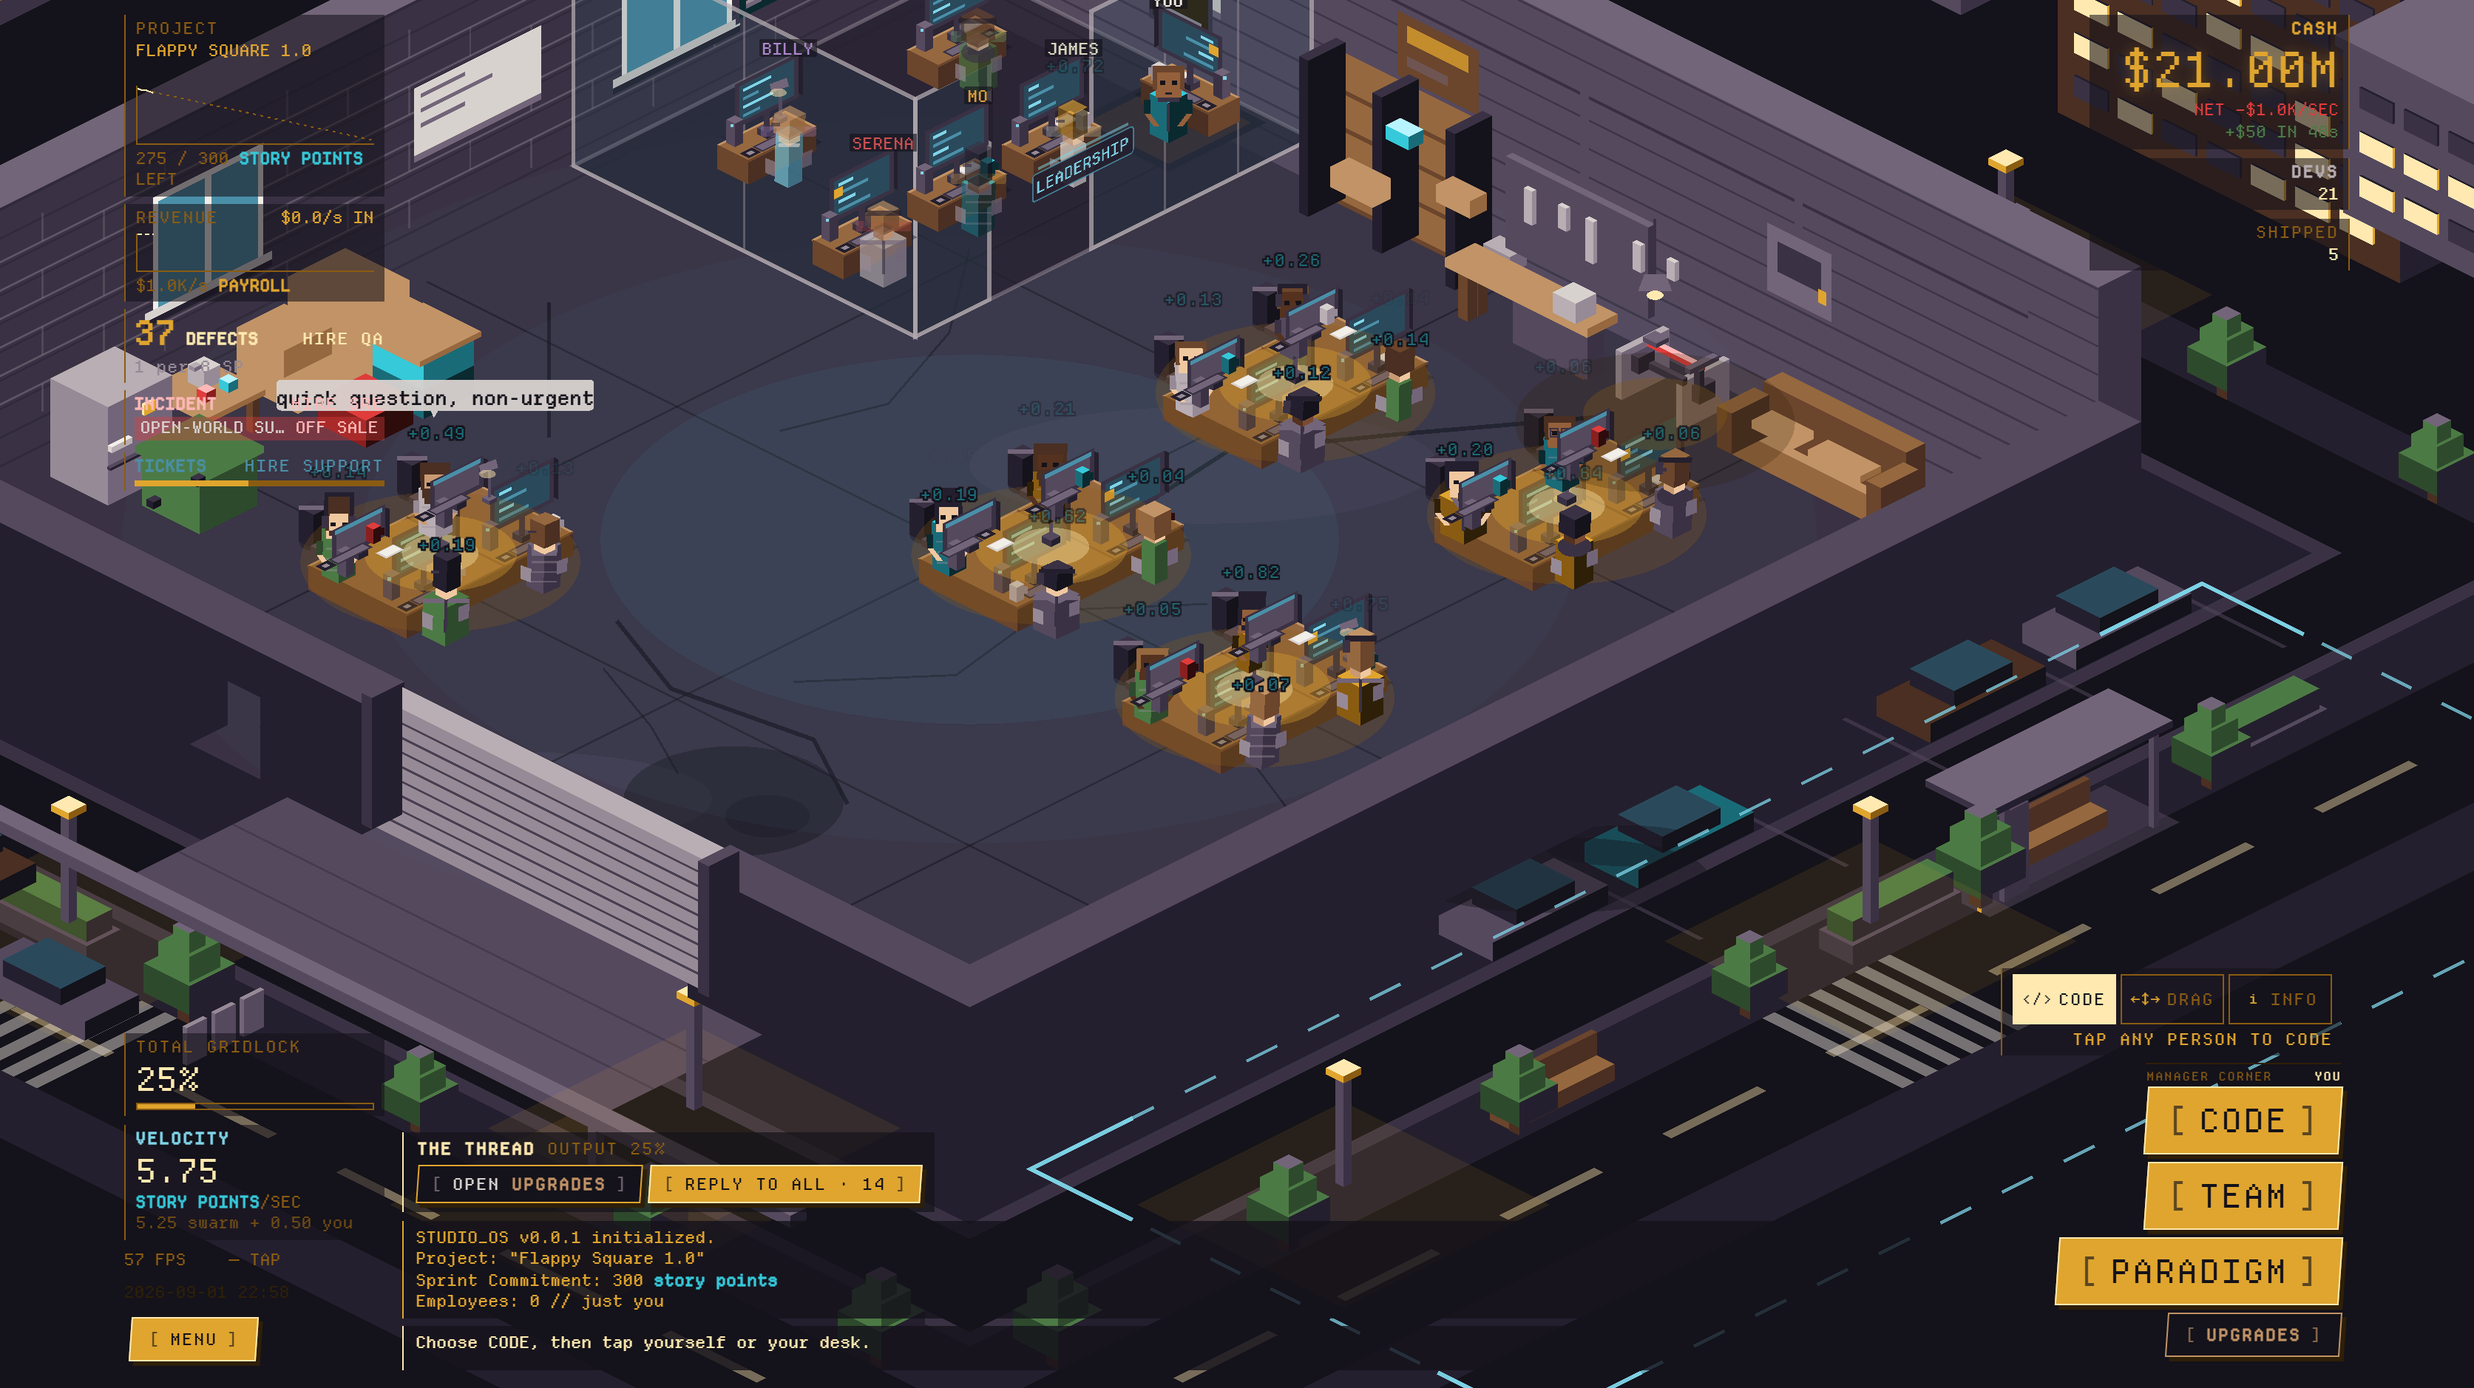
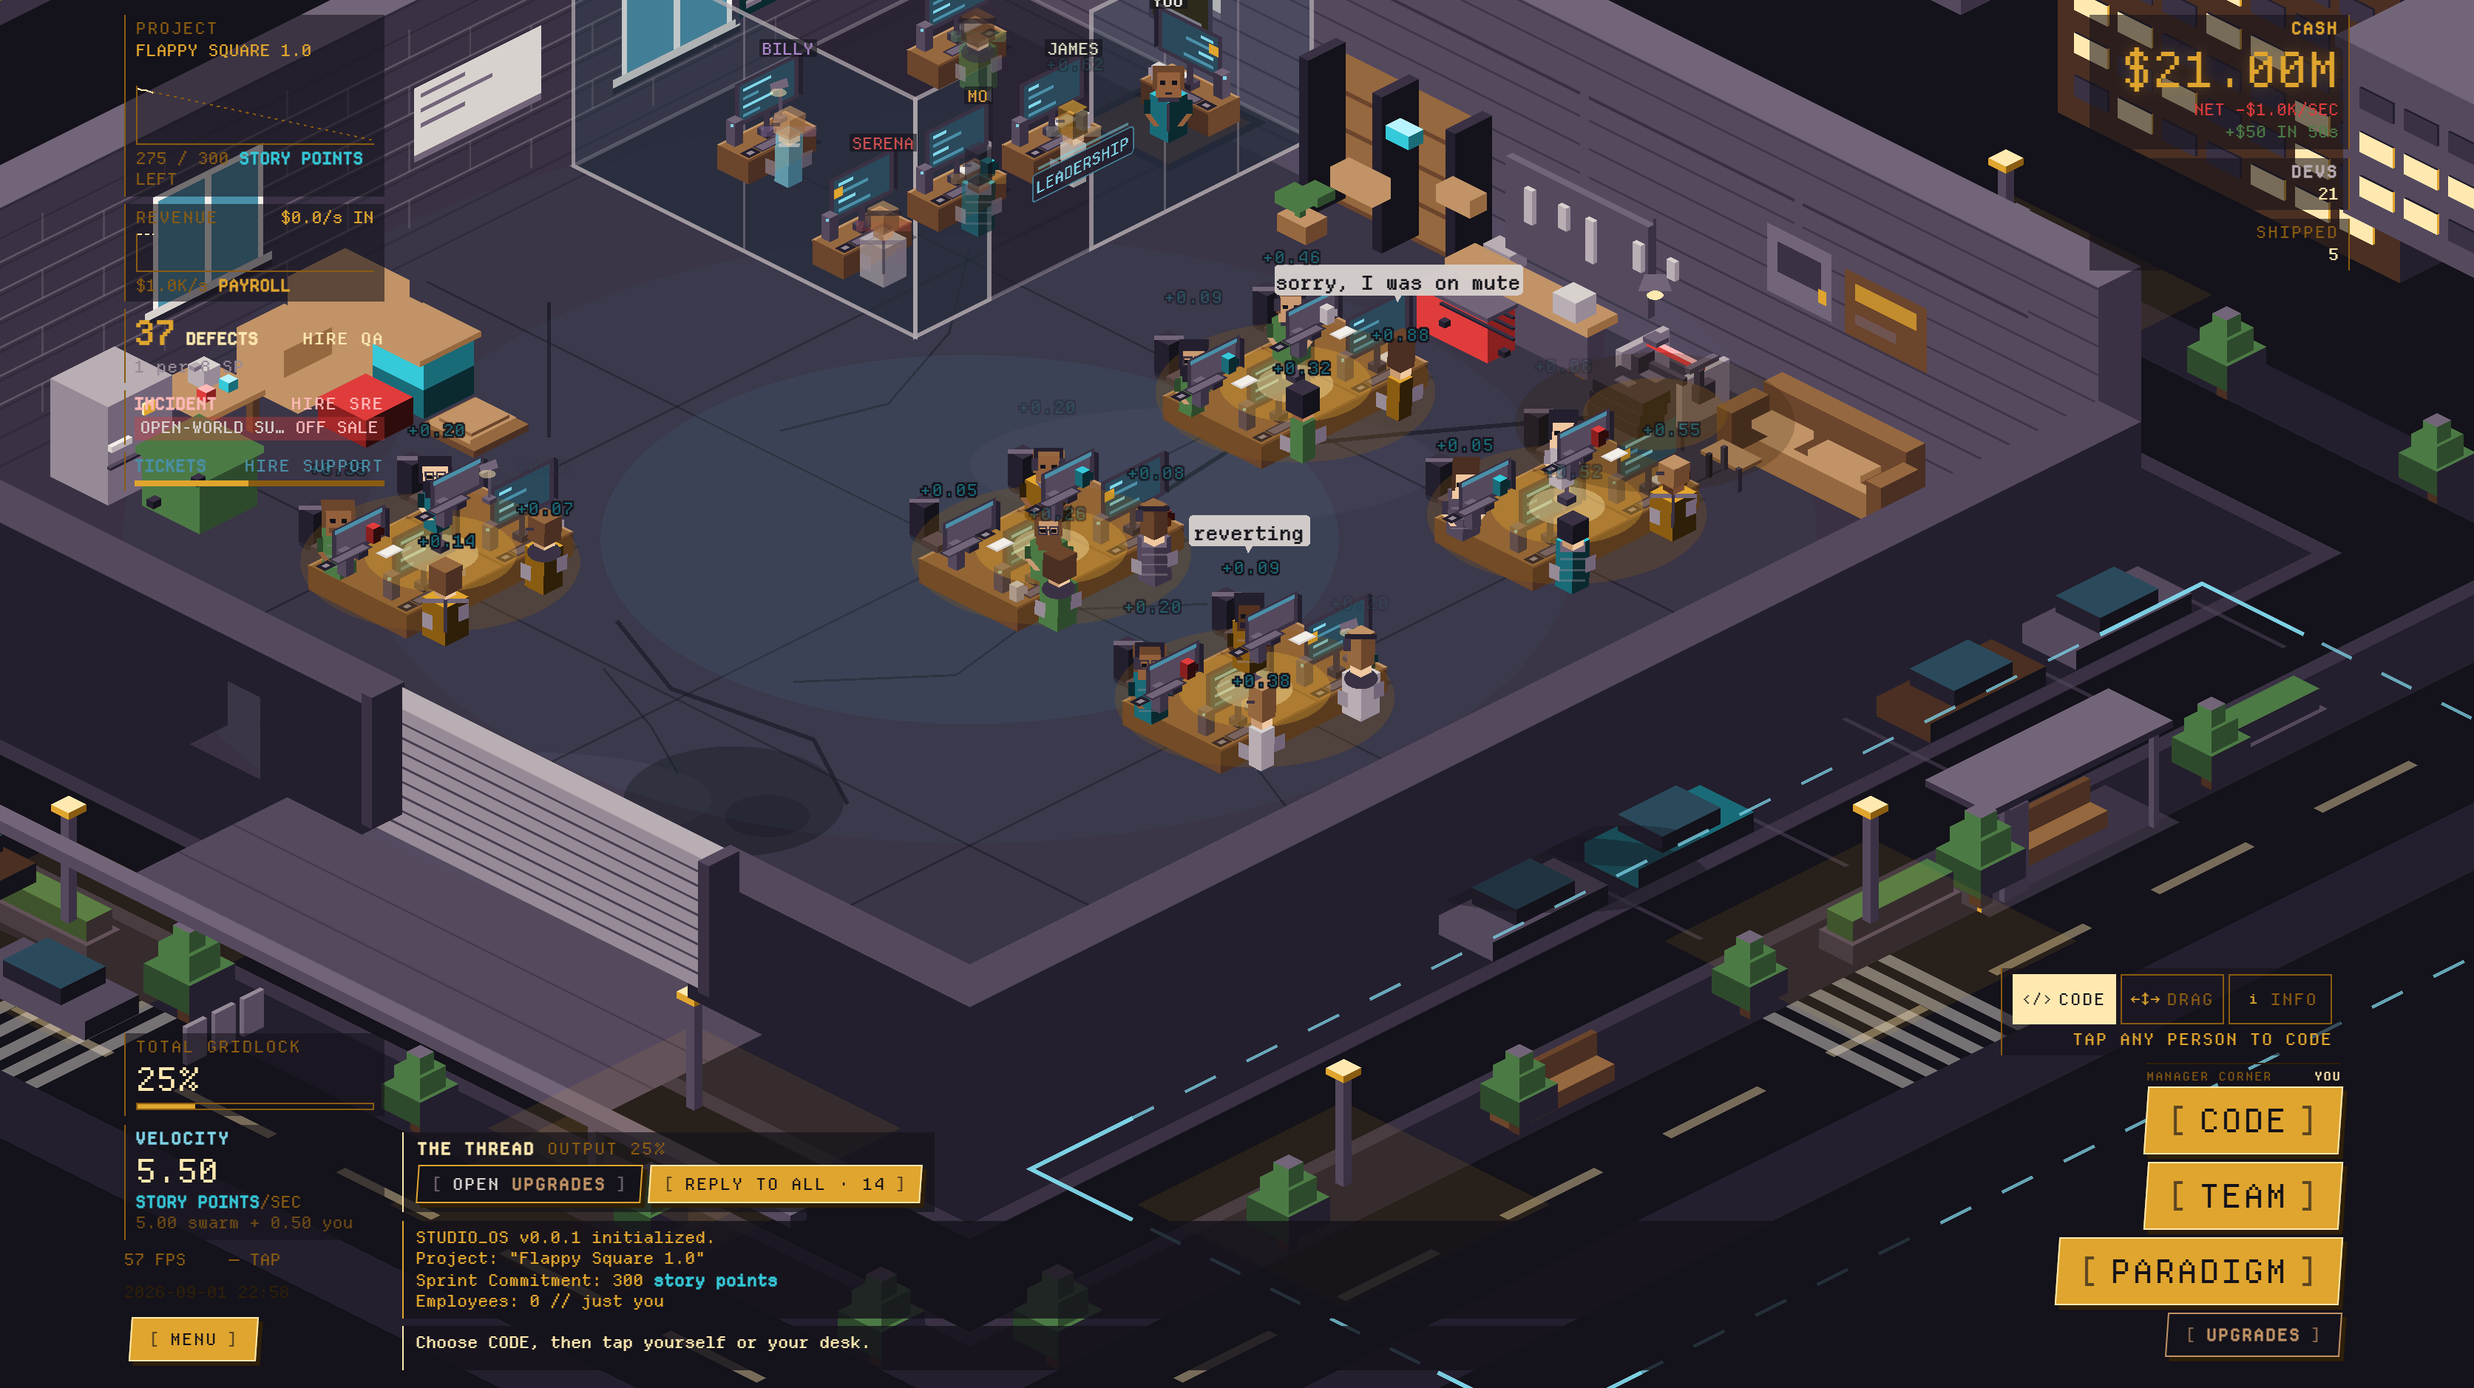
feat: the perimeter fills up, and anchoring learns to count past one
Ten props against sixteen tiles of wall left the edge of the room reading as a
shelf, a board and a sofa with gaps between them. The canonical concept has
something like twenty-five objects round its edge, and the count is
load-bearing: a wall with one object against it is a wall with an object
against it; a wall with five is a workshop. The middle of the floor stays empty
either way — that is §7.8.0c's circulation and it is untouched.

Five more, all in the 0.55-tile band in front of the first rank: a plant beside
the shelves, a red tool chest under the workbench (the only saturated object on
that wall, which is what a tool chest is in a real one), a stack of tyres by
the bike, the concept's folding stool by the sofa, and a pallet of flattened
card by the boxes — the one thing on this floor that is lying down, which is
what makes the stack beside it read as tall. Nothing moved to make room; the
band was already there, between the props on the wall and the nearest pod's
chairs.

**Anchoring had to become transitive to accept them.** The rule that every prop
stands against a far wall or against a prop that does was one hop deep, and the
tool chest is two: it stands in front of the workbench, which stands in front
of the tool board, which is the only one of the three touching block. One hop
called it homeless, which is wrong about workshops — a bench with a chest under
it is *more* against the wall than either alone. The check walks the chain back
[…]

diff --git a/src/render/room.ts b/src/render/room.ts
@@ -1400,6 +1400,60 @@ function drawGarageProp(g: Graphics, p: Project, plot: Plot) {
       box(x + 1.25, y + 0.5, 0.4, 0.78, d - 0.8, 0.1, RAMPS.WOOD, 2)
       break
     }
+    case 'THE PLANT': {
+      // The one green thing on this side of the room. A pot, a stem and three
+      // leaf masses at different heights — the irregularity is the read, the
+      // same way the tool board's spacing is.
+      box(x + 0.12, y + 0.12, 0, w - 0.28, d - 0.28, 0.26, RAMPS.WOOD, 1)
+      box(x + 0.28, y + 0.26, 0.26, 0.08, 0.08, 0.3, RAMPS.FOLIAGE, 0)
+      box(x + 0.1, y + 0.16, 0.42, 0.34, 0.3, 0.16, RAMPS.FOLIAGE, 1)
+      box(x + 0.3, y + 0.06, 0.52, 0.3, 0.26, 0.14, RAMPS.FOLIAGE, 0)
+      box(x + 0.22, y + 0.3, 0.58, 0.26, 0.22, 0.12, RAMPS.FOLIAGE, 1)
+      break
+    }
+    case 'THE TOOL CHEST': {
+      // A red roller cabinet under the bench. It is the only saturated object
+      // on this wall, which is what a tool chest is in a real workshop too —
+      // and the drawer lines are what stop it being a red box.
+      box(x + 0.06, y + 0.06, 0.08, w - 0.16, d - 0.14, 0.62, RAMPS.ALARM, 1)
+      for (let i = 1; i <= 3; i++) {
+        box(x + 0.04, y + 0.08, 0.08 + i * 0.16, w - 0.12, 0.04, 0.03, RAMPS.NEUTRAL, 0)
+      }
+      // The top, a shade lighter, and two castors so it is a thing on wheels.
+      box(x + 0.04, y + 0.04, 0.7, w - 0.12, d - 0.1, 0.06, RAMPS.NEUTRAL, 2)
+      box(x + 0.1, y + 0.1, 0, 0.09, 0.09, 0.08, RAMPS.NEUTRAL, 0)
+      box(x + w - 0.22, y + 0.1, 0, 0.09, 0.09, 0.08, RAMPS.NEUTRAL, 0)
+      break
+    }
+    case 'THE TYRES': {
+      // A stack of three, leaned rather than squared. Rings, not discs: a tyre
+      // is read from its hole, and at this size the hole is one pale pixel of
+      // the floor showing through the middle.
+      for (let i = 0; i < 3; i++) {
+        const off = i * 0.04
+        box(x + 0.1 + off, y + 0.1, i * 0.19, w - 0.26, d - 0.2, 0.18, RAMPS.NEUTRAL, 0)
+        box(x + 0.28 + off, y + 0.24, i * 0.19 + 0.17, 0.22, d - 0.48, 0.02, RAMPS.NEUTRAL, 2)
+      }
+      break
+    }
+    case 'THE STOOL': {
+      // The folding stool from the concept, by the sofa. A seat and two splayed
+      // legs — three marks, and the splay is the one that says *folding*.
+      box(x + 0.06, y + 0.06, 0.34, w - 0.12, d - 0.12, 0.05, RAMPS.WOOD, 1)
+      box(x + 0.1, y + 0.08, 0, 0.05, 0.05, 0.34, RAMPS.NEUTRAL, 1)
+      box(x + w - 0.17, y + d - 0.15, 0, 0.05, 0.05, 0.34, RAMPS.NEUTRAL, 1)
+      box(x + 0.1, y + d - 0.15, 0, 0.05, 0.05, 0.34, RAMPS.NEUTRAL, 0)
+      break
+    }
+    case 'THE PALLET': {
+      // Flattened card and a pallet, stacked by the boxes. Low, wide and
+      // horizontal — the one thing on this floor that is not standing up, which
+      // is what makes the stack beside it read as tall.
+      box(x + 0.05, y + 0.05, 0, w - 0.1, d - 0.1, 0.1, RAMPS.WOOD, 0)
+      box(x + 0.12, y + 0.1, 0.1, w - 0.3, d - 0.22, 0.06, RAMPS.WOOD, 2)
+      box(x + 0.2, y + 0.16, 0.16, w - 0.42, d - 0.34, 0.05, RAMPS.WOOD, 1)
+      break
+    }
     case 'THE CRATES': {
       // Milk crates and a stack of flattened card. Two heights, one leaning.
       box(x + 0.15, y + 0.1, 0, 0.75, 0.75, 0.42, RAMPS.CALM, 0)
@@ -1438,6 +1492,11 @@ const PROP_LOOK: Record<string, { h: number; ramp: readonly string[]; base: numb
   'THE FRIDGE': { h: 1.5, ramp: RAMPS.NEUTRAL, base: 4 },
   'THE KETTLE': { h: 0.9, ramp: RAMPS.NEUTRAL, base: 3 },
   'THE SOFA': { h: 0.72, ramp: RAMPS.WOOD, base: 1 },
+  'THE PLANT': { h: 0.7, ramp: RAMPS.FOLIAGE, base: 1 },
+  'THE TOOL CHEST': { h: 0.76, ramp: RAMPS.ALARM, base: 1 },
+  'THE TYRES': { h: 0.55, ramp: RAMPS.NEUTRAL, base: 0 },
+  'THE STOOL': { h: 0.39, ramp: RAMPS.WOOD, base: 1 },
+  'THE PALLET': { h: 0.21, ramp: RAMPS.WOOD, base: 0 },
   'THE CRATES': { h: 1.0, ramp: RAMPS.WOOD, base: 3 },
 }
 
@@ -5179,11 +5238,17 @@ export function buildRoom(): RoomHandle {
         onWall(11.75, 12.7, 1.75, 2.75, c(RAMPS.NEUTRAL[4]))
         onWall(11.9, 12.55, 2.1, 2.55, c(RAMPS.NEUTRAL[2]))
         onWall(12.5, 12.62, 1.95, 2.15, c(RAMPS.WARN[2]))
-        // A poster, taped up and slightly off square — the one warm rectangle
-        // on this wall and the only thing on it a person put there.
-        onWall(6.3, 7.5, 2.2, 3.15, c(RAMPS.WOOD[1]))
-        onWall(6.45, 7.35, 2.75, 3.0, c(RAMPS.WARN[2]), 0.75)
-        onWall(6.45, 7.05, 2.4, 2.55, c(RAMPS.NEUTRAL[4]), 0.5)
+        // A poster, taped up — the one warm rectangle on this wall and the only
+        // thing on it a person put there.
+        //
+        // **Over the sofa, not over the shelves.** [2026-09-02] It was at 6.3
+        // and the shelf stack is 2.3 tiles tall and starts at 5.4, so the
+        // poster was hung behind it and drawn every frame into a gap the width
+        // of a shelf upright. The far wall has exactly one clear stretch at
+        // poster height and this is it.
+        onWall(12.9, 14.1, 1.7, 2.65, c(RAMPS.WOOD[1]))
+        onWall(13.05, 13.95, 2.25, 2.5, c(RAMPS.WARN[2]), 0.75)
+        onWall(13.05, 13.65, 1.9, 2.05, c(RAMPS.NEUTRAL[4]), 0.5)
       }
       // The roll-up door, standing in the hole the near-left wall left for it.
       // A shutter is a stack of horizontal slats and nothing else: the

diff --git a/GDD.html b/GDD.html
@@ -4574,6 +4574,32 @@ one</strong> &mdash; and warmth needs enough alpha to survive the floor's own va
 <p>&sect;7.8.1e's rule that <em>the ground outside is drawn once and never changes what it is</em> is
 untouched; <code>district.ts</code> still draws it. What changed is its <em>ordering</em>, which is
 this room's business, because this is the room the concept is of.</p>
+<h6 id="the-second-rank-2026-09-02">The second rank, and why density is not decoration <strong>[CANON - added 2026-09-02]</strong></h6>
+<p>Ten props against sixteen tiles of wall left the perimeter reading as a shelf, a board and a sofa
+with gaps between them. The canonical concept has something like twenty-five objects round its edge,
+and that count is load-bearing: <strong>a wall with one object against it is a wall with an object
+against it; a wall with five is a workshop.</strong> The middle of the floor stays empty either way
+&mdash; that is &sect;7.8.0c's circulation and it is untouched.</p>
+<p>Five more, all in the 0.55-tile band in front of the first rank: a <strong>plant</strong> beside the
+shelves, a red <strong>tool chest</strong> under the workbench (the only saturated object on that wall,
+which is what a tool chest is in a real one), a stack of <strong>tyres</strong> by the bike, the
+concept's folding <strong>stool</strong> by the sofa, and a <strong>pallet</strong> of flattened card by
+the boxes &mdash; the one thing on the floor that is lying down, which is what makes the stack beside
+it read as tall. Nothing moved to make room: the band was already there, between the props on the wall
+and the nearest pod's chairs.</p>
+<p><strong>Anchoring had to become transitive to accept them.</strong> The rule that every prop stands
+against a far wall or against a prop that does was one hop deep, and the tool chest is two: it stands
+in front of the workbench, which stands in front of the tool board, which is the only one of the three
+touching block. One hop called it homeless, which is wrong about workshops &mdash; a bench with a chest
+under it is <em>more</em> against the wall than either alone &mdash; so the check walks the chain back to
+masonry instead of looking one step. The claim it is really making is <em>the perimeter band</em>, and
+a band is as deep as it is.</p>
+<p><strong>And the poster was hung behind the shelves.</strong> It sat at plan <em>gx</em> 6.3 with a
+2.3-tile shelf stack starting at 5.4, so it was drawn every frame into a gap the width of a shelf
+upright. This is the near-wall occlusion defect one axis over &mdash; something authored, tested and
+invisible &mdash; with a prop rather than a wall in the way, and no gate catches it because a mark in
+the wall plane has no plot. It hangs over the sofa now, which is the far wall's one clear stretch at
+poster height.</p>
 <h6 id="the-street-is-shown-by-widening-the-frame">The street is shown by widening the frame, not by extending the box</h6>
 <p>Two attempts extended the fit's <code>maxCol</code> over the apron, at 3.4 columns and then 2.0,
 and both were wrong the same way: <strong>the apron is on one side only, so adding it moves the

diff --git a/src/render/garage.test.ts b/src/render/garage.test.ts
@@ -479,23 +479,35 @@ describe('every desk stands off every wall', () => {
 
   it('keeps every prop against a wall the camera can see over', () => {
     const onAFarWall = (p: Plot) => p.gx0 <= 1e-9 || p.gy0 <= 1e-9
+    const touching = (a: Plot, b: Plot) =>
+      a !== b &&
+      a.gx0 < b.gx1 + 1e-9 &&
+      a.gx1 > b.gx0 - 1e-9 &&
+      a.gy0 < b.gy1 + 1e-9 &&
+      a.gy1 > b.gy0 - 1e-9
+    /*
+     * **Anchored is transitive**, because the perimeter band is two or three
+     * deep and not one.
+     *
+     * The tool chest stands in front of the workbench, the workbench stands in
+     * front of the tool board, and only the tool board touches the block. A
+     * one-hop rule called that homeless, which is wrong about workshops: a
+     * bench with a chest under it is *more* against the wall than either alone.
+     * So this walks the chain back to masonry rather than looking one step.
+     */
+    const anchored = new Set(GARAGE_PROPS.filter(onAFarWall))
+    for (let grew = true; grew; ) {
+      grew = false
+      for (const prop of GARAGE_PROPS) {
+        if (anchored.has(prop)) continue
+        if (GARAGE_PROPS.some((other) => anchored.has(other) && touching(prop, other))) {
+          anchored.add(prop)
+          grew = true
+        }
+      }
+    }
     for (const prop of GARAGE_PROPS) {
-      // Against the block, or against something that is. The workbench stands
-      // in front of the tool board and the tool board is on the wall, which is
-      // how a workshop is actually arranged — so the rule is *the perimeter
-      // band*, one prop deep or two, and not literal contact with masonry.
-      const anchored =
-        onAFarWall(prop) ||
-        GARAGE_PROPS.some(
-          (other) =>
-            other !== prop &&
-            onAFarWall(other) &&
-            prop.gx0 < other.gx1 + 1e-9 &&
-            prop.gx1 > other.gx0 - 1e-9 &&
-            prop.gy0 < other.gy1 + 1e-9 &&
-            prop.gy1 > other.gy0 - 1e-9,
-        )
-      expect({ prop: prop.name, seen: anchored })
+      expect({ prop: prop.name, seen: anchored.has(prop) })
         .toEqual({ prop: prop.name, seen: true })
     }
   })

diff --git a/src/render/garage.ts b/src/render/garage.ts
@@ -455,6 +455,25 @@ export const GARAGE_PROPS: readonly Plot[] = [
   // never does is put them where you cannot see them.
   { name: 'THE CRATES', gx0: 1.1, gy0: 9.2, gx1: 2.1, gy1: 10.5 },
   { name: 'THE BIN', gx0: 1.1, gy0: 12.4, gx1: 2.2, gy1: 13.6 },
+  /*
+   * **The rest of the second rank.** [2026-09-02]
+   *
+   * Ten props against sixteen tiles of wall left the perimeter reading as a
+   * shelf, a board and a sofa with gaps between them. The canonical concept has
+   * something like twenty-five objects round its edge, and the density is not
+   * decoration: a wall with one object against it is a wall with an object
+   * against it, and a wall with five is a *workshop*. The middle of the floor
+   * stays empty either way — that is §7.8.0c's circulation and it is untouched.
+   *
+   * All five sit in the 0.55-tile band in front of the first rank, which is the
+   * gap between the props on the wall and the nearest pod's chairs. Nothing
+   * moved to make room for them; the band was already there and empty.
+   */
+  { name: 'THE PLANT', gx0: 5.4, gy0: 0.55, gx1: 6.1, gy1: 1.15 },
+  { name: 'THE TOOL CHEST', gx0: 8.0, gy0: 1.0, gx1: 9.2, gy1: 1.55 },
+  { name: 'THE TYRES', gx0: 10.4, gy0: 0.9, gx1: 11.4, gy1: 1.5 },
+  { name: 'THE STOOL', gx0: 12.2, gy0: 1.1, gx1: 12.9, gy1: 1.55 },
+  { name: 'THE PALLET', gx0: 2.1, gy0: 9.4, gx1: 3.0, gy1: 10.3 },
 ]
 
 /**
